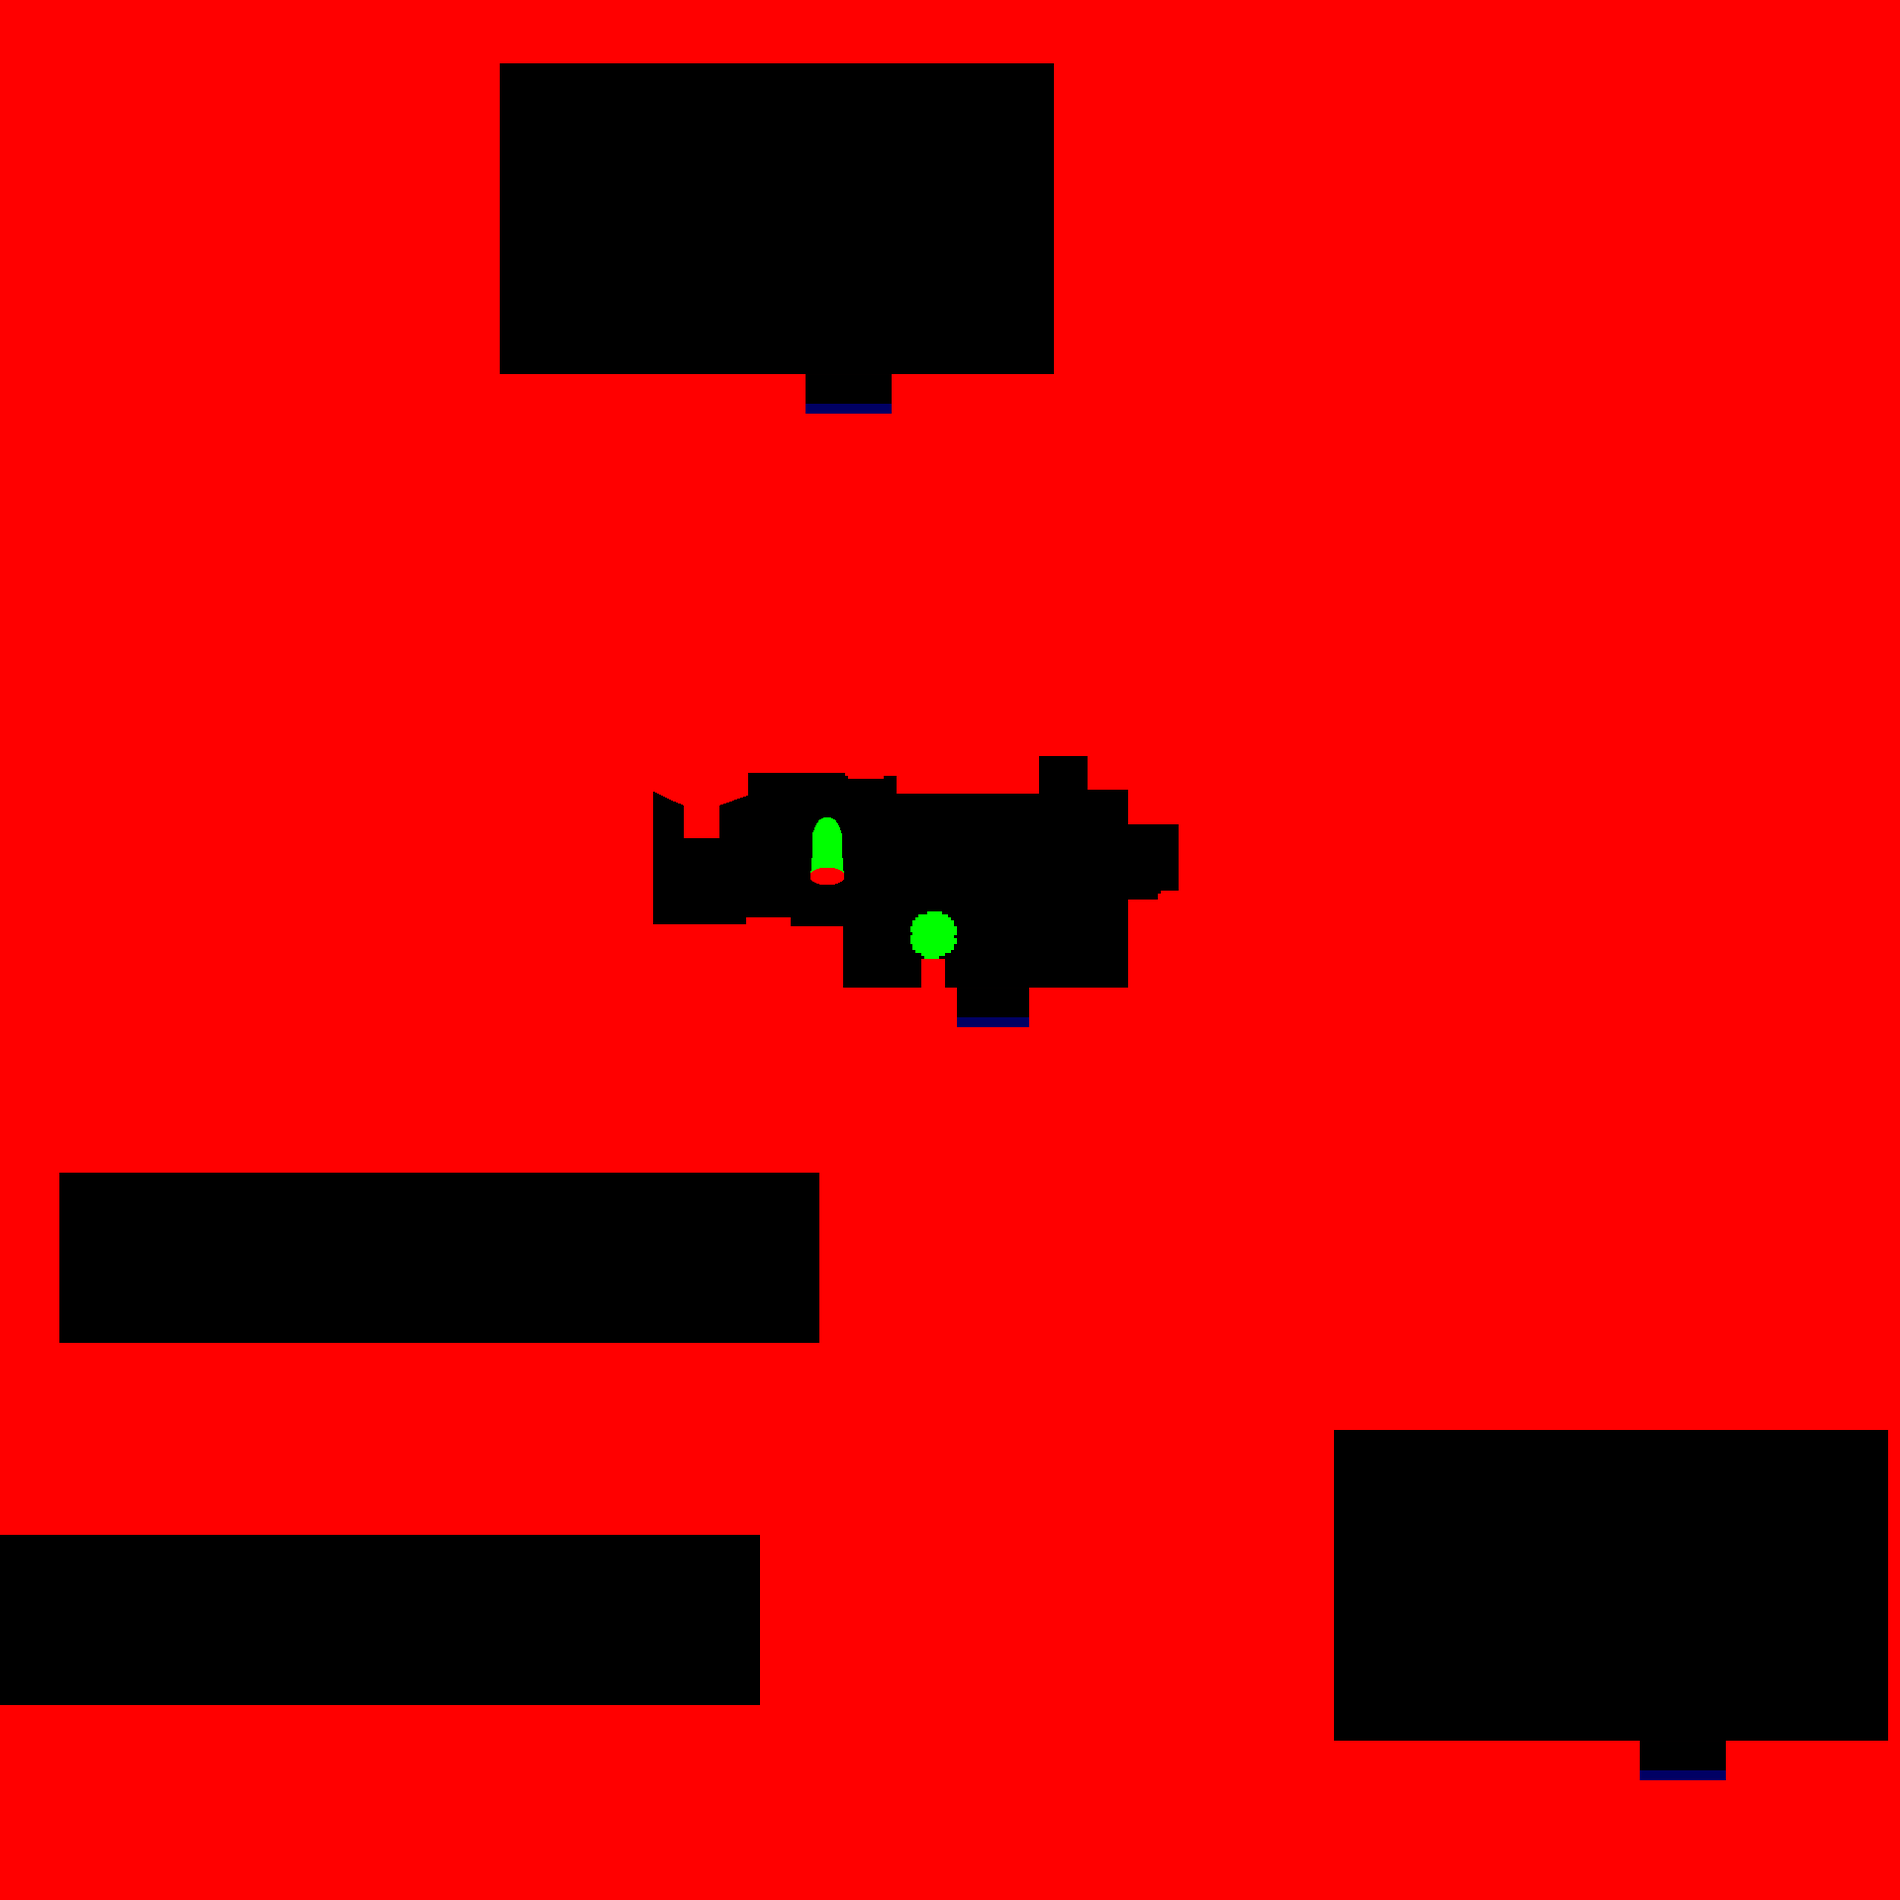
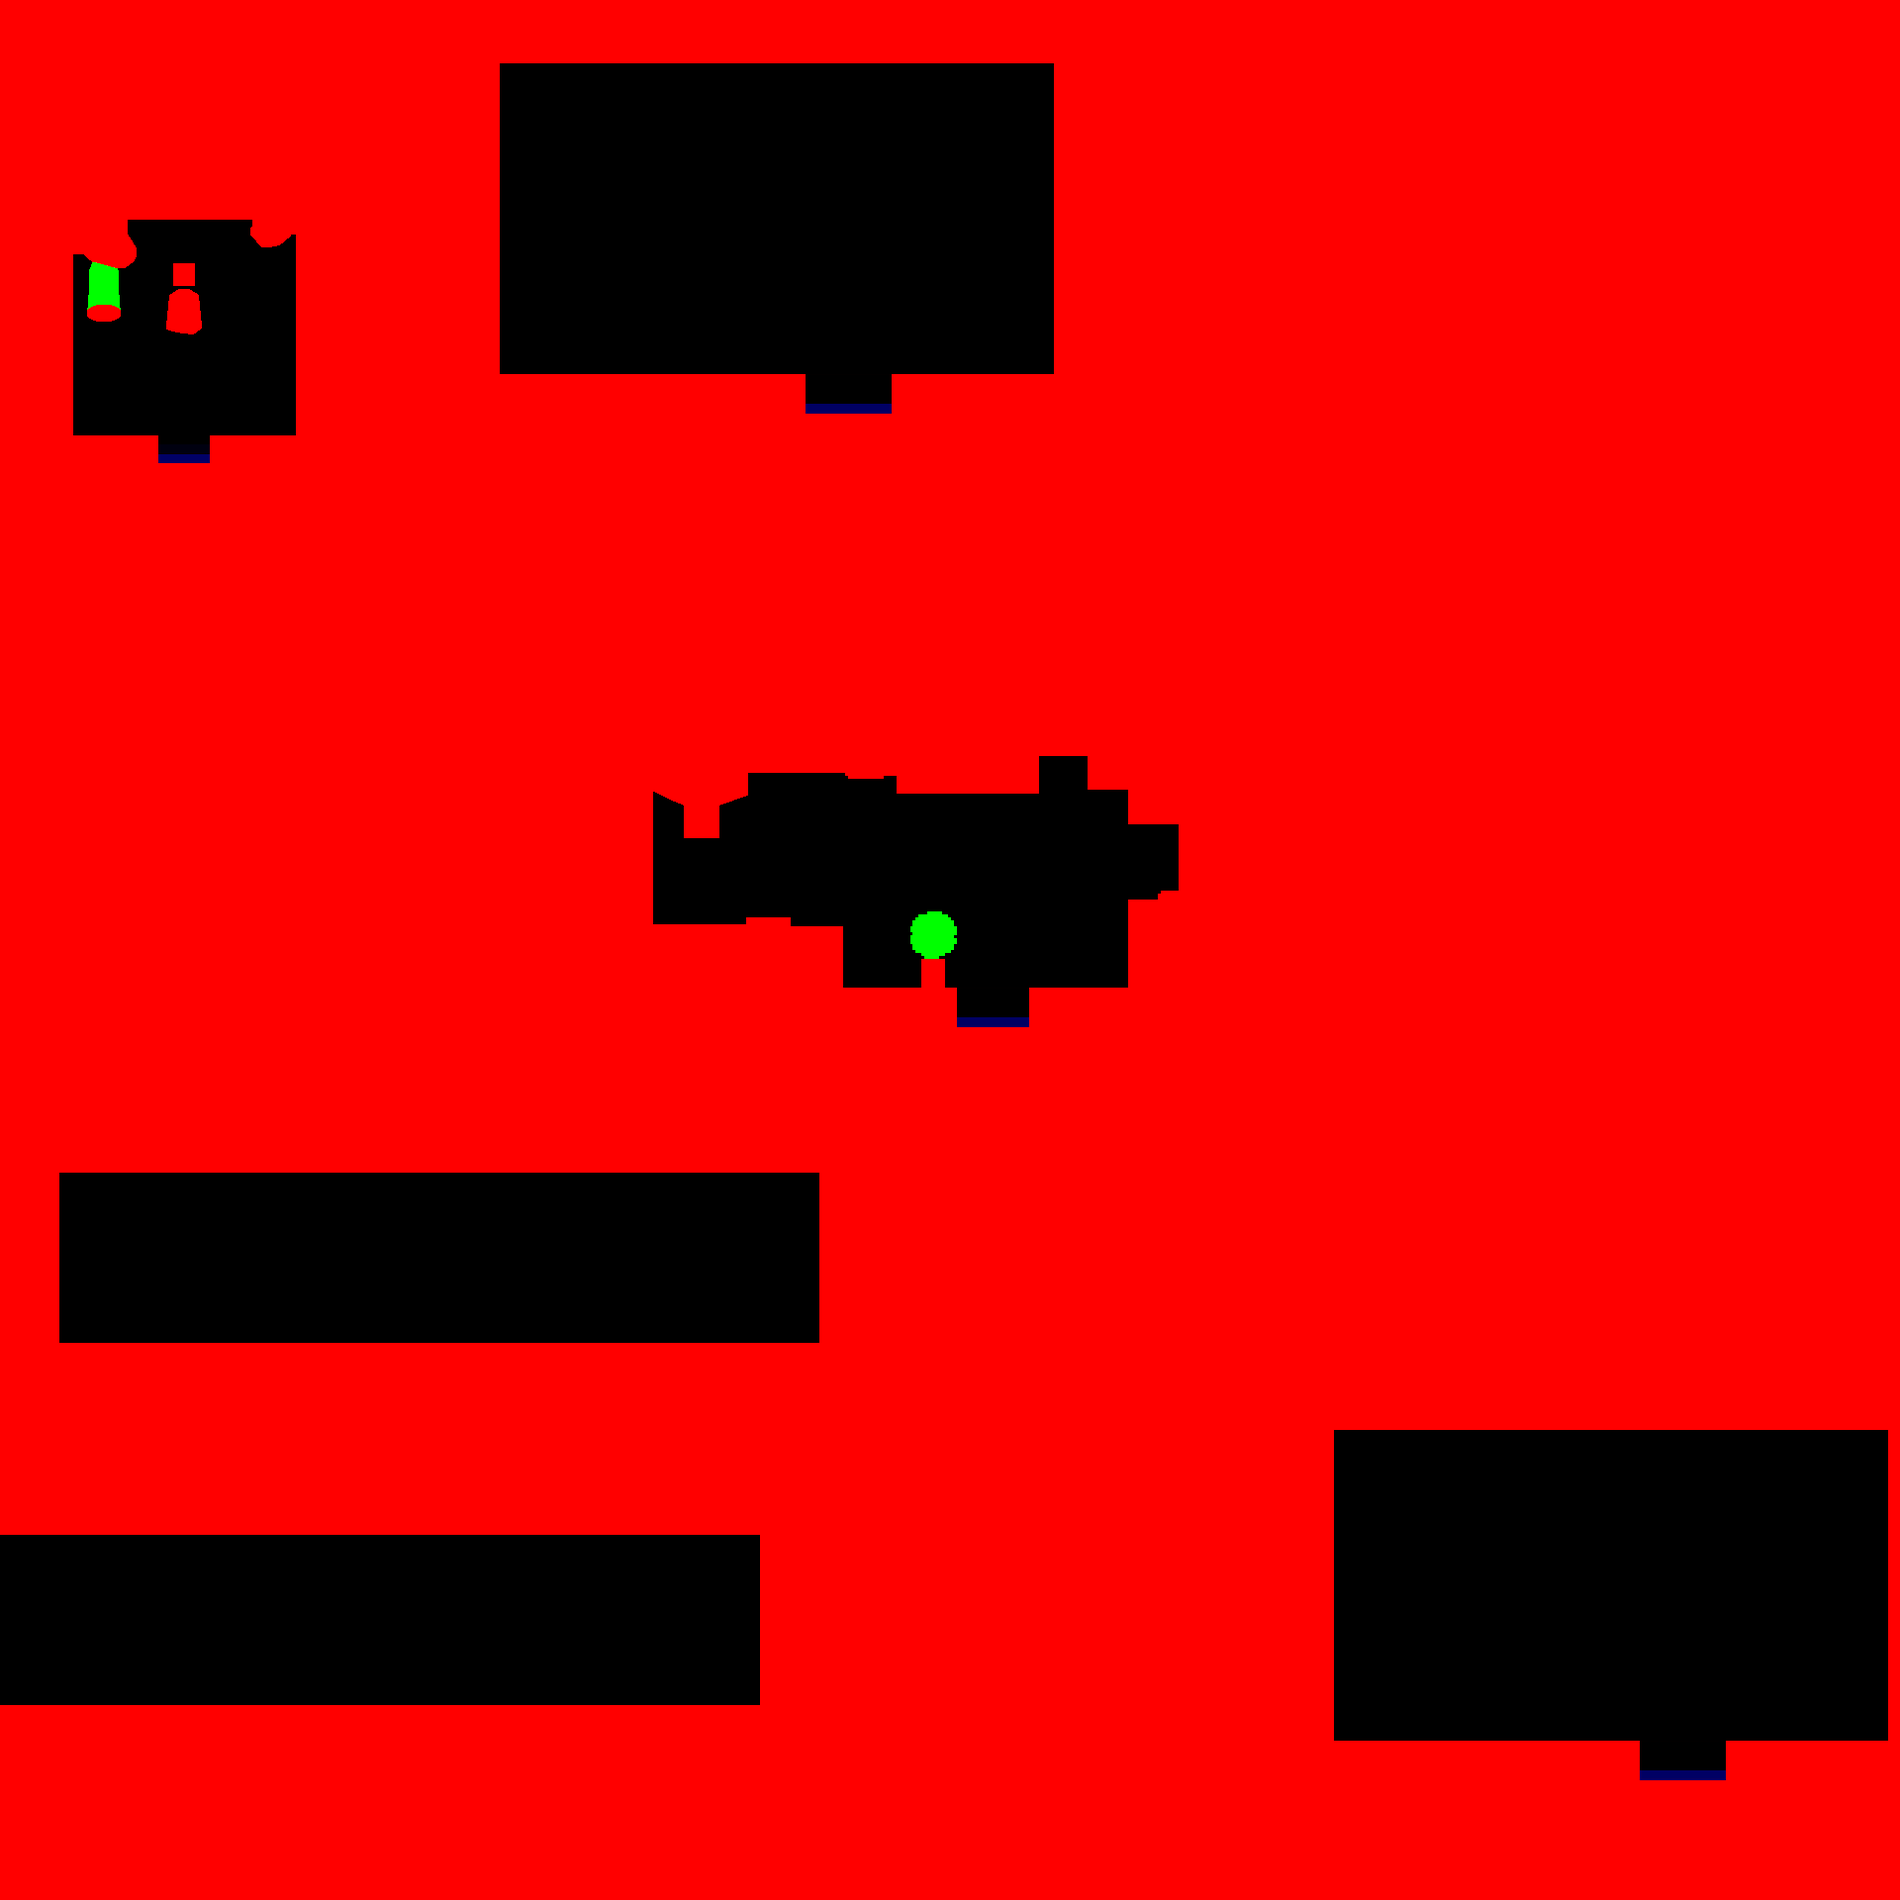
(+) victory screen when beating golem

Changed region(s): [[0.0312, 0.0938, 0.1562, 0.25], [0.4062, 0.4375, 0.4688, 0.4688]]

diff --git a/src/gameplay/boss/ia_golem.c b/src/gameplay/boss/ia_golem.c
@@ -26,6 +26,23 @@ static void check_rush_to_player(rpg_t *rpg)
     }
 }
 
+static void switch_status(rpg_t *rpg)
+{
+    switch (rpg->boss_stats.status) {
+        case ST_IDLE:
+            animate_idle_golem(rpg);
+            break;
+        case ST_ATTACK_1:
+            animate_attack_proj_golem(rpg);
+            break;
+        case ST_DIE:
+            animate_die_golem(rpg);
+            break;
+        default:
+            break;
+    }
+}
+
 static void ia_golem(rpg_t *rpg)
 {
     float time_attack =
@@ -43,40 +60,7 @@ static void ia_golem(rpg_t *rpg)
         rpg->spritesheet[SP_BOSS_GOLEM].pos);
         sfClock_restart(rpg->spritesheet[SP_BOSS_GOLEM].c_attack);
     }
-}
-
-static void player_rush_to_golem(rpg_t *rpg)
-{
-    bool check = check_collision_hoe_to_golem(rpg);
-
-    if (check || rpg->spritesheet[SP_ITEM_HOE].pos.x >=
-    rpg->spritesheet[SP_BACKGROUND_GROTTE].pos.x +
-    (rpg->spritesheet[SP_BACKGROUND_GROTTE].rect.width / 2)) {
-        rpg->player_stats.attack = false;
-        rpg->spritesheet[SP_ITEM_HOE].pos =
-        rpg->spritesheet[rpg->player_stats.skin].pos;
-        sfSprite_setPosition(rpg->spritesheet[SP_ITEM_HOE].sprite,
-        rpg->spritesheet[SP_ITEM_HOE].pos);
-        rpg->spritesheet[SP_ITEM_HOE].active = false;
-        if (check) {
-            rpg->boss_stats.life -= 2;
-            rpg->boss_stats.life <= 0 ?
-            rpg->spritesheet[SP_BOSS_GOLEM].rect.left = 0 : 0;
-        }
-    }
-}
-
-static void attack_of_player(rpg_t *rpg)
-{
-    if (rpg->player_stats.attack)
-        player_rush_to_golem(rpg);
-    else if (rpg->all_events.enter && !rpg->player_stats.attack) {
-        rpg->player_stats.attack = true;
-        rpg->spritesheet[SP_ITEM_HOE].pos =
-        rpg->spritesheet[rpg->player_stats.skin].pos;
-        sfSprite_setPosition(rpg->spritesheet[SP_ITEM_HOE].sprite,
-        rpg->spritesheet[SP_ITEM_HOE].pos);
-    }
+    switch_status(rpg);
 }
 
 void animate_boss_grotte(rpg_t *rpg)
@@ -88,13 +72,17 @@ void animate_boss_grotte(rpg_t *rpg)
         rpg->spritesheet[SP_BOSS_GOLEM].pos;
         sfSprite_setPosition(rpg->spritesheet[SP_BOSS_GOLEM_PROJ].sprite,
         rpg->spritesheet[SP_BOSS_GOLEM].pos);
+        if (rpg->spritesheet[SP_BOSS_GOLEM].rect.left >= 300 &&
+        rpg->spritesheet[SP_BOSS_GOLEM].rect.top == 800) {
+            rpg->spritesheet[SP_BACKGROUND_VICRORY_GROTTE].pos =
+            rpg->screen[SC_VICTORY_GROTTE].view_pos;
+            rpg->spritesheet[SP_NEXT_GROTTE].pos = (sfVector2f)
+            {rpg->screen[SC_VICTORY_GROTTE].view_pos.x + 148,
+            rpg->screen[SC_VICTORY_GROTTE].view_pos.y + 110};
+            toggle_spritesheet_scene(rpg, false, SC_GROTTE);
+            toggle_spritesheet_scene(rpg, true, SC_VICTORY_GROTTE);
+        }
     }
     attack_of_player(rpg);
     ia_golem(rpg);
-    if (rpg->boss_stats.status == ST_IDLE)
-        animate_idle_golem(rpg);
-    if (rpg->boss_stats.status == ST_ATTACK_1)
-        animate_attack_proj_golem(rpg);
-    if (rpg->boss_stats.status == ST_DIE)
-        animate_die_golem(rpg);
 }

diff --git a/src/init/init_screens.c b/src/init/init_screens.c
@@ -19,9 +19,6 @@ SP_CURSOR, -1};
 const int screen_inventory[] = {SP_INVENTORY, SP_CURSOR, -1};
 const int screen_jail[] = {SP_BACKGROUND_JAIL, SELECTED_PLAYER, SP_CURSOR, -1};
 const int screen_how_play[] = {SP_BACKGROUND_HOW_PLAY, SP_BACK, SP_CURSOR, -1};
-const int screen_victory_cemetery[] = {SP_BACKGROUND_CEMETERY, SELECTED_PLAYER,
-SP_BOSS_EXECUTIONER, SP_LIFE_BAR_BOX, SP_LIFE_BAR, SP_LIFE_BAR_BOX_BOSS,
-SP_LIFE_BAR_BOSS, SP_BACKGROUND_VICRORY_GROTTE, SP_NEXT_GROTTE, SP_CURSOR, -1};
 const int screen_pause_menu[] = {SP_RESUME, SP_OPTION, SP_LEAVE_GAME, \
 SP_CURSOR, -1};
 const int screen_option_menu[] = {SP_BACKGROUND_HOW_PLAY, SP_SOUND,
@@ -29,12 +26,20 @@ SP_SOUND_SLIDER, SP_SOUNDBAR, SP_BOX_BUTTON, SP_SOUND_MUSIC,
 SP_SOUND_SLIDER_MUSIC, SP_SOUNDBAR_MUSIC, SP_BOX_BUTTON_MUSIC, SP_BACK,
 SP_ARROW_LEFT, SP_ARROW_RIGHT, SP_BUTTON_ON_OFF_LUM, SP_BUTTON_ON_OFF_FPS,
 SP_BUTTON_SCREEN, SP_FPS_SELECTOR, SP_CURSOR, -1};
+
+const int screen_victory_cemetery[] = {SP_BACKGROUND_CEMETERY, SELECTED_PLAYER,
+SP_BOSS_EXECUTIONER, SP_LIFE_BAR_BOX, SP_LIFE_BAR, SP_LIFE_BAR_BOX_BOSS,
+SP_LIFE_BAR_BOSS, SP_BACKGROUND_VICRORY_GROTTE, SP_NEXT_GROTTE, SP_CURSOR, -1};
+const int screen_victory_grotte[] = {SP_BACKGROUND_GROTTE, SELECTED_PLAYER,
+SP_BOSS_GOLEM, SP_LIFE_BAR_BOX, SP_LIFE_BAR, SP_LIFE_BAR_BOX_BOSS,
+SP_LIFE_BAR_BOSS, SP_BACKGROUND_VICRORY_GROTTE, SP_NEXT_GROTTE, SP_CURSOR, -1};
 const int screen_grotte[] = {SP_BACKGROUND_GROTTE, SELECTED_PLAYER,
 SP_BOSS_GOLEM, SP_LIFE_BAR_BOX, SP_LIFE_BAR, SP_LIFE_BAR_BOX_BOSS,
-SP_LIFE_BAR_BOSS, SP_CURSOR, -1};
+SP_LIFE_BAR_BOSS, -1};
 const int screen_cemetery[] = {SP_BACKGROUND_CEMETERY, SELECTED_PLAYER,
 SP_BOSS_EXECUTIONER, SP_LIFE_BAR_BOX, SP_LIFE_BAR, SP_LIFE_BAR_BOX_BOSS,
 SP_LIFE_BAR_BOSS, -1};
+
 const int screen_tente[] = {SP_BACKGROUND_TENTE, SELECTED_PLAYER,   \
 SP_NPC_SOLDIER, SP_CURSOR, -1};
 
@@ -42,6 +47,8 @@ static void init_screen_norme(rpg_t *rpg)
 {
     rpg->screen[SC_GROTTE] = (screen_t){.active = false,
     .view_pos = {444, 1196 + 20}, .view_zoom = 0.4, screen_grotte};
+    rpg->screen[SC_VICTORY_GROTTE] = (screen_t){.active = false,
+    .view_pos = {444, 1196 + 20}, .view_zoom = 0.4, screen_victory_grotte};
     rpg->screen[SC_VICTORY_CEMETERY] = (screen_t){.active = false,
     .view_pos = {384, 1581}, .view_zoom = 0.4, screen_victory_cemetery};
     rpg->screen[SC_HOW_PLAY] = (screen_t){.active = false,

diff --git a/src/gameplay/boss/ia_executioner.c b/src/gameplay/boss/ia_executioner.c
@@ -51,23 +51,41 @@ static void ia_executioner(rpg_t *rpg)
     ia_executioner_rush(rpg);
 }
 
+static void switch_status(rpg_t *rpg)
+{
+    switch (rpg->boss_stats.status) {
+        case ST_IDLE:
+            animate_idle_executioner(rpg);
+            break;
+        case ST_ATTACK_1:
+            animate_attack_1_executioner(rpg);
+            break;
+        case ST_ATTACK_2:
+            animate_attack_2_executioner(rpg);
+            break;
+        case ST_DIE:
+            animate_die_executioner(rpg);
+            break;
+        default:
+            break;
+    }
+}
+
 void animate_boss_cemetery(rpg_t *rpg)
 {
     if (rpg->boss_stats.life <= 0) {
         rpg->boss_stats.status = ST_DIE;
         if (rpg->spritesheet[SP_BOSS_EXECUTIONER].rect.left >= 2000) {
+            rpg->spritesheet[SP_BACKGROUND_VICRORY_GROTTE].pos =
+            rpg->screen[SC_VICTORY_CEMETERY].view_pos;
+            rpg->spritesheet[SP_NEXT_GROTTE].pos = (sfVector2f)
+            {rpg->screen[SC_VICTORY_CEMETERY].view_pos.x + 148,
+            rpg->screen[SC_VICTORY_CEMETERY].view_pos.y + 110};
             toggle_spritesheet_scene(rpg, false, SC_CEMETERY);
             toggle_spritesheet_scene(rpg, true, SC_VICTORY_CEMETERY);
         }
     }
     else
         ia_executioner(rpg);
-    if (rpg->boss_stats.status == ST_IDLE)
-        animate_idle_executioner(rpg);
-    if (rpg->boss_stats.status == ST_ATTACK_1)
-            animate_attack_1_executioner(rpg);
-    if (rpg->boss_stats.status == ST_ATTACK_2)
-            animate_attack_2_executioner(rpg);
-    if (rpg->boss_stats.status == ST_DIE)
-            animate_die_executioner(rpg);
+    switch_status(rpg);
 }

diff --git a/src/gameplay/boss/attack_player_hoe.c b/src/gameplay/boss/attack_player_hoe.c
@@ -1,0 +1,42 @@
+/*
+** EPITECH PROJECT, 2021
+** myrpg
+** File description:
+** attack_player_hoe.c
+*/
+
+#include "../../../include/rpg.h"
+
+static void player_rush_to_golem(rpg_t *rpg)
+{
+    bool check = check_collision_hoe_to_golem(rpg);
+
+    if (check || rpg->spritesheet[SP_ITEM_HOE].pos.x >=
+    rpg->spritesheet[SP_BACKGROUND_GROTTE].pos.x +
+    (rpg->spritesheet[SP_BACKGROUND_GROTTE].rect.width / 2)) {
+        rpg->player_stats.attack = false;
+        rpg->spritesheet[SP_ITEM_HOE].pos =
+        rpg->spritesheet[rpg->player_stats.skin].pos;
+        sfSprite_setPosition(rpg->spritesheet[SP_ITEM_HOE].sprite,
+        rpg->spritesheet[SP_ITEM_HOE].pos);
+        rpg->spritesheet[SP_ITEM_HOE].active = false;
+        if (check) {
+            rpg->boss_stats.life -= 2;
+            rpg->boss_stats.life <= 0 ?
+            rpg->spritesheet[SP_BOSS_GOLEM].rect.left = 0 : 0;
+        }
+    }
+}
+
+void attack_of_player(rpg_t *rpg)
+{
+    if (rpg->player_stats.attack)
+        player_rush_to_golem(rpg);
+    else if (rpg->all_events.enter && !rpg->player_stats.attack) {
+        rpg->player_stats.attack = true;
+        rpg->spritesheet[SP_ITEM_HOE].pos =
+        rpg->spritesheet[rpg->player_stats.skin].pos;
+        sfSprite_setPosition(rpg->spritesheet[SP_ITEM_HOE].sprite,
+        rpg->spritesheet[SP_ITEM_HOE].pos);
+    }
+}

diff --git a/src/draw_all.c b/src/draw_all.c
@@ -65,6 +65,12 @@ void draw_all(rpg_t *rpg)
     if (rpg->screen[SC_INVENTORY].active)
         draw_inventory(rpg->player_stats.inventory,
         &rpg->begin, rpg->spritesheet);
+    // printf("rpg->spritesheet[SP_CURSOR].active = %d\n", rpg->spritesheet[SP_CURSOR].active);
+    // printf("view:       %0.0f, %0.0f\n", rpg->begin.view.center.x, rpg->begin.view.center.y);
+    // printf("mouse view: %0.0f, %0.0f\n", rpg->all_events.mouse.pos_view.x, rpg->all_events.mouse.pos_view.y);
+    // printf("mouse:      %d, %d\n", rpg->all_events.mouse.pos.x, rpg->all_events.mouse.pos.y);
+    // printf("sp cursor:  %0.0f, %0.0f\n\n", rpg->spritesheet[SP_CURSOR].pos.x, rpg->spritesheet[SP_CURSOR].pos.y);
+    // rpg->spritesheet[SP_CURSOR].pos = rpg->all_events.mouse.pos_view;
     if (rpg->spritesheet[SP_CURSOR].active)
         draw_one_sprite(&rpg->begin, rpg->spritesheet[SP_CURSOR].sprite,
         rpg->spritesheet[SP_CURSOR].rect, rpg->spritesheet[SP_CURSOR].pos);

diff --git a/src/gameplay/teleport_player_house.c b/src/gameplay/teleport_player_house.c
@@ -24,13 +24,14 @@ void teleport_base(rpg_t *rpg)
 
 void teleport_tente(rpg_t *rpg)
 {
+    sfVector2f pos = {183, 432};
+
     if (rpg->screen[SC_MAIN_MAP].active) {
         rpg->begin.view.center = rpg->screen[SC_TENTE].view_pos;
         toggle_spritesheet_scene(rpg, false, SC_MAIN_MAP);
         toggle_spritesheet_scene(rpg, true, SC_TENTE);
     } else {
-        rpg->spritesheet[rpg->player_stats.skin].pos =
-        rpg->screen[SC_MAIN_MAP].view_pos;
+        rpg->spritesheet[rpg->player_stats.skin].pos = pos;
         rpg->begin.view.center = rpg->screen[SC_MAIN_MAP].view_pos;
         toggle_spritesheet_scene(rpg, false, SC_TENTE);
         toggle_spritesheet_scene(rpg, true, SC_MAIN_MAP);

diff --git a/include/rpg.h b/include/rpg.h
@@ -26,8 +26,8 @@
     nothing, nothing, nothing, nothing, nothing, nothing, nothing, nothing}
     #define SPAWN_X WIDTH / 2
     #define SPAWN_Y WIDTH / 2 + 80
-    #define SPEED_PLAYER 4
-    // #define SPEED_PLAYER 1.5
+    // #define SPEED_PLAYER 4
+    #define SPEED_PLAYER 1.5
     #define SECOND_TO_MICRO(x) x * 1000000
 
 enum size_window {
@@ -111,6 +111,7 @@ enum screens {
     SC_BASE,
     SC_VICTORY_CEMETERY,
     SC_CEMETERY,
+    SC_VICTORY_GROTTE,
     SC_GROTTE,
     SC_TENTE,
     SC_OPTION,

diff --git a/src/gameplay/move_player_and_view.c b/src/gameplay/move_player_and_view.c
@@ -50,7 +50,7 @@ void move_player_and_view2(rpg_t *rpg)
         teleport_player_scene(rpg, rpg->imgs_colors.main_map,
         rpg->spritesheet[rpg->player_stats.skin].pos);
     }
-    if (rpg->screen[SC_BASE].active) {
+    if (rpg->screen[SC_BASE].active || rpg->screen[SC_TENTE].active) {
         move_player_and_view_horizontal(rpg, rpg->imgs_colors.backgrounds,
         rpg->spritesheet[rpg->player_stats.skin].pos, false);
         move_player_and_view_vertical(rpg, rpg->imgs_colors.backgrounds,

diff --git a/src/utils/check_screens.c b/src/utils/check_screens.c
@@ -17,5 +17,6 @@ bool is_in_gameplay(rpg_t *rpg)
 {
     return (rpg->screen[SC_MAIN_MAP].active || rpg->screen[SC_BASE].active
     || rpg->screen[SC_GROTTE].active || rpg->screen[SC_INVENTORY].active
-    || rpg->screen[SC_CEMETERY].active);
+    || rpg->screen[SC_CEMETERY].active ||
+    rpg->screen[SC_VICTORY_CEMETERY].active || rpg->screen[SC_TENTE].active);
 }

diff --git a/src/gameplay/teleport_player.c b/src/gameplay/teleport_player.c
@@ -37,7 +37,7 @@ static void teleport_cemetery(rpg_t *rpg)
 static void teleport_player_scene_norme(rpg_t *rpg, sfColor color)
 {
     switch (color.b) {
-    case B_TENTE:
+        case B_TENTE:
             play_sound(rpg->sound.sound_list[SOUND_DOOR].sound,
             rpg->sound.volume);
             teleport_tente(rpg);

diff --git a/src/events/events.c b/src/events/events.c
@@ -72,5 +72,4 @@ void my_events(rpg_t *rpg)
     sfMouse_getPositionRenderWindow(rpg->begin.window);
     rpg->all_events.mouse.pos_view = sfRenderWindow_mapPixelToCoords(
     rpg->begin.window, rpg->all_events.mouse.pos, rpg->begin.view.view);
-    rpg->all_events.mouse.pos_view.y -= 10;
 }

diff --git a/src/view.c b/src/view.c
@@ -9,6 +9,7 @@
 
 void set_view(rpg_t *rpg, sfVector2f view_pos)
 {
+    rpg->begin.view.center = view_pos;
     sfView_setCenter(rpg->begin.view.view, view_pos);
     sfRenderWindow_setView(rpg->begin.window, rpg->begin.view.view);
 }
